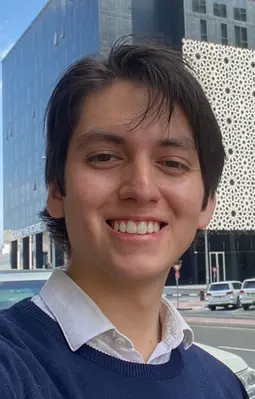
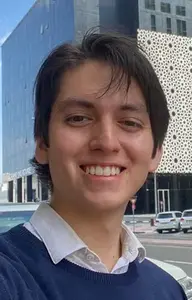
css fixes

diff --git a/index.html b/index.html
@@ -30,7 +30,7 @@
             <h2>About me</h2>
             <div class="myself">
                 <p>Lorem ipsum dolor sit amet consectetur adipisicing elit. Atque expedita quos vero laborum aliquid omnis. Amet ex aliquid possimus similique suscipit minus. Totam reiciendis placeat unde repudiandae consectetur eveniet praesentium vel! Omnis vitae ut dolores dicta vel, accusamus nam veniam ullam, natus sit labore aut numquam accusantium eos hic dolor!</p>
-                <img src="./images/picture-of-myself.webp" alt="Image of myself" />
+                <img src="./images/picture-of-myself.webp" width="300" height="192" alt="Image of myself" />
             </div>
             <div class="origin">
                 <h3>Corrientes, Argentina</h3>

diff --git a/styles/base.css b/styles/base.css
@@ -65,16 +65,17 @@ h1 {
 
 h2 {
     text-align: center;
-    background-image: linear-gradient(to bottom, #6b4428, white);
-    border-radius: 10px 10px 0 0;
-    padding-top: 12px;
+    background-color: #6b4428;
+    border-radius: 10px;
+    padding: 12px 0;
+    color: white;
 }
 .myself {
     display: flex;
 }
 .myself img {
-    width: 20%;
-    height: auto;
+    max-width: 100%;
+    aspect-ratio: 1;
 }
 
 h3 {
@@ -108,9 +109,10 @@ footer {
     display: flex;
     flex-direction: column;
     justify-content: center;
-    background-color: #776e6a;
+    background-color: #413c3a;
     padding-top: 15px;
-    color: white;
+    color: #f5f2f0;
+    font-weight: 500;
 }
 .general {
     display: flex;
